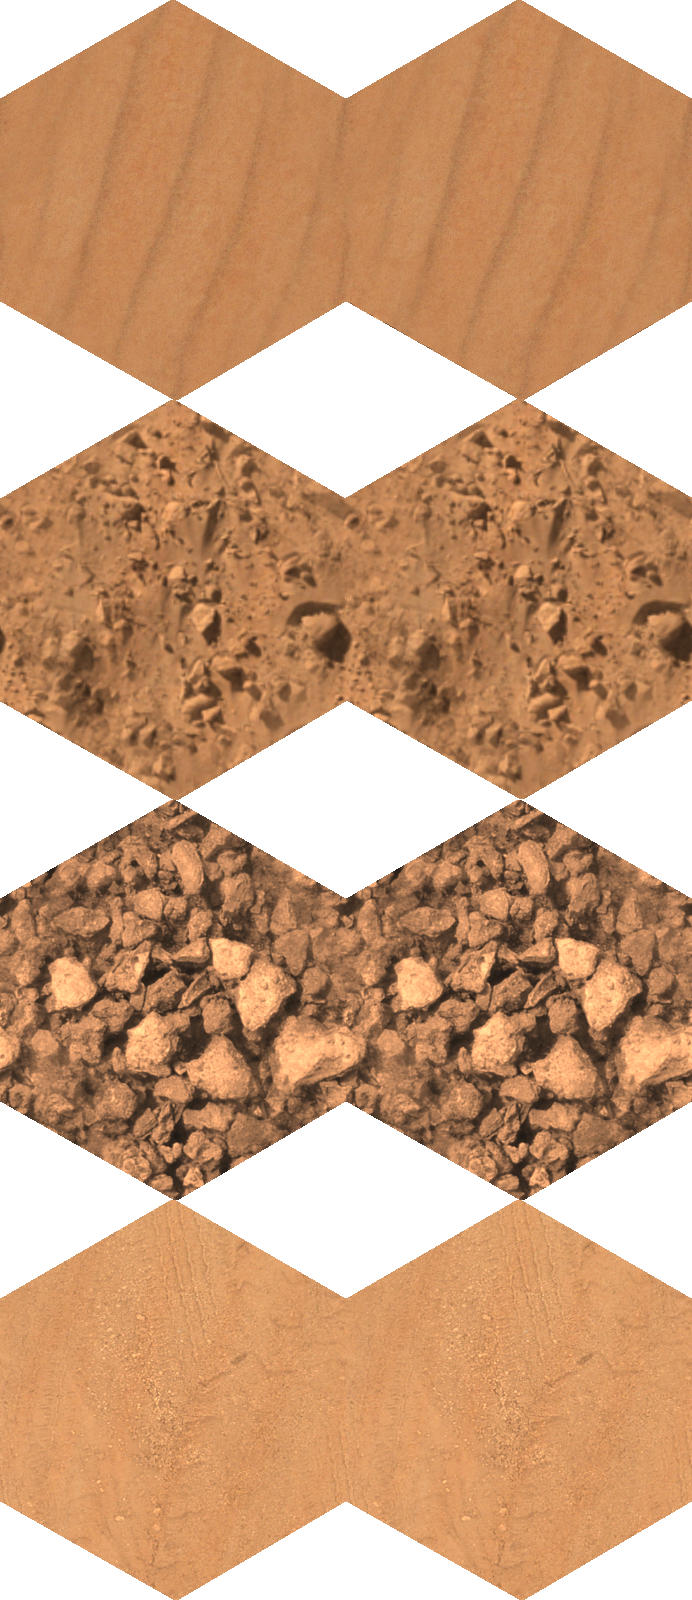
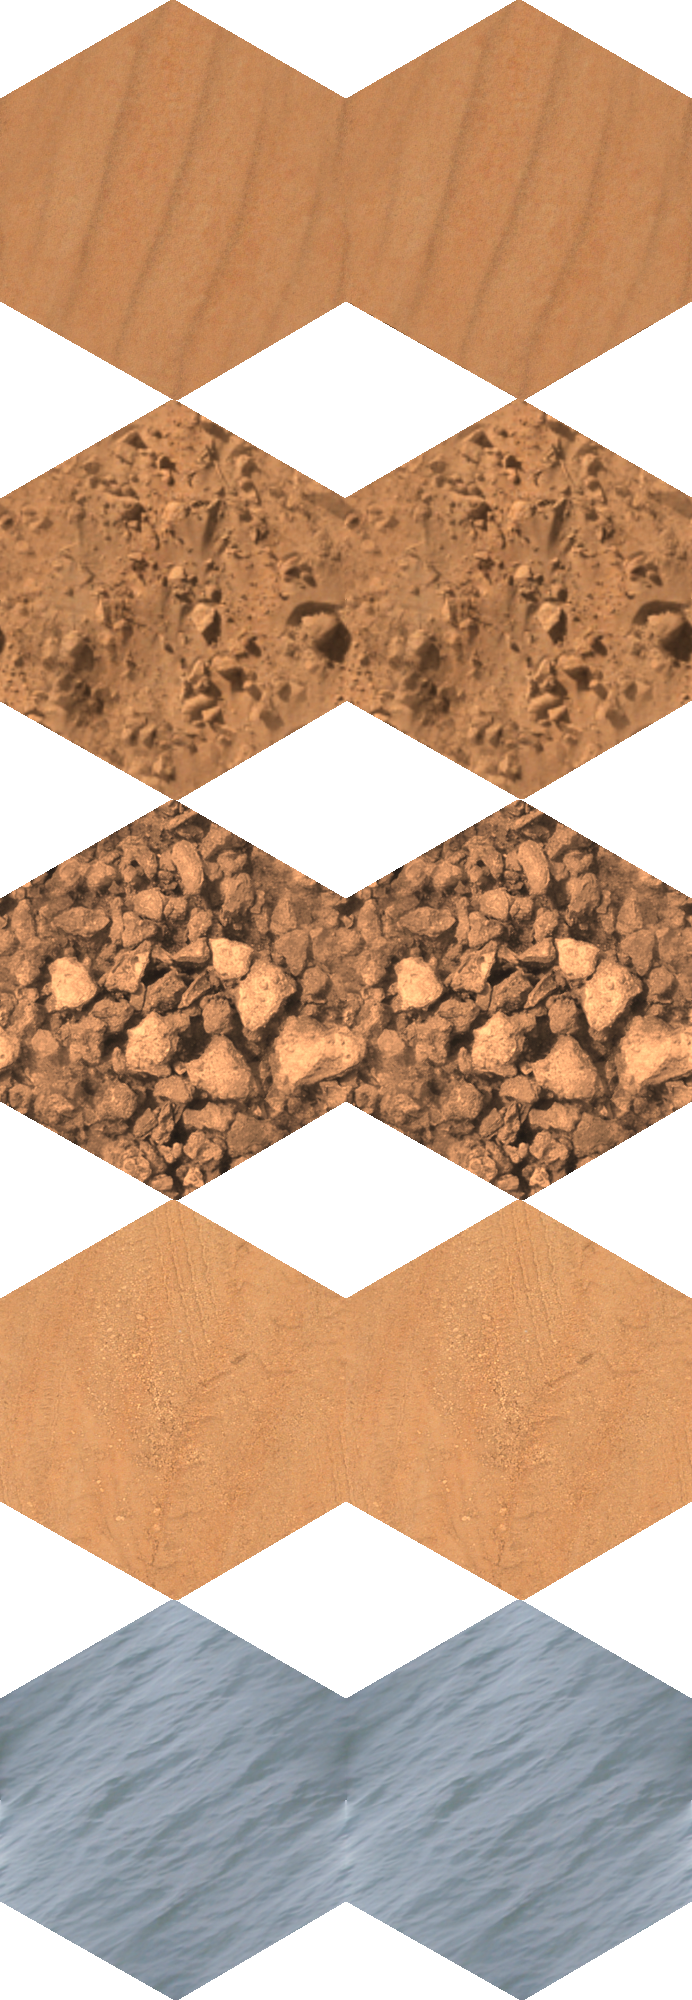
added water to map generation

diff --git a/Prototypes/MapCanvas/MapCanvas.js b/Prototypes/MapCanvas/MapCanvas.js
@@ -8,7 +8,7 @@ var mouseX, mouseY, mPanTrack;                                                  
 
 /*Define our Constructors*/
 function Terrain() {
-    this.type; // 0=Smooth, 1=Rough, 2=Mountainous, 3=Prepared/MinedOut
+    this.type; // 0=Smooth, 1=Rough, 2=Mountainous, 3=Prepared/MinedOut 4=Water
     this.altitude; //a function of distance from mountains
     this.resources; //an array that holds the different metal and resource types
 }
@@ -221,6 +221,12 @@ function drawRadar() {
                         radarPixels.data[idx + 2] = 4;
                         radarPixels.data[idx + 3] = 255;
                         break;
+                    case 4:
+                        radarPixels.data[idx + 0] = 128;
+                        radarPixels.data[idx + 1] = 188;
+                        radarPixels.data[idx + 2] = 224;
+                        radarPixels.data[idx + 3] = 255;
+                        break;
                     default:
                         //do nothing
                 }
@@ -283,7 +289,7 @@ function createMap() {
 			if(distance(x,y,radarRad,radarRad)<=radarRad) {                                         //check the radius, mark true if it's mapped, mark false if it's not in the circle
 				map[y][x][0]=true;                                              //invert axes because referencing the array is not like referencing a graph
 				map[y][x][1]= new Terrain();                                    //if we're in the circle, assign a tile value
-                map[y][x][1].type = 3;
+                map[y][x][1].type = 4;
                 map[y][x][1].altitude=0;
                 map[y][x][1].resources= new Array(2);                           //insert the number of resources we'll be looking for
                 generateResources(x,y,0);
@@ -363,21 +369,9 @@ function flatTerrain(smoothness) {
             } catch(e){console.log('hmm... y:' + y + '  x:'+x+ '  '+ e);}       
         }
     }
-    lakes();
 }
 
-function lakes() {
-    for (var y = 0; y < radarRad*2; y++) {
-        for (var x = 0; x < radarRad*2; x++) {
-            if (map[y][x][0]===true && map[y][x][1].altitude < 5) {
-                map[y][x][1].type=3;
-            }
-        }
-    }
-    console.log('done?');
-}
-
-/*returns the distance of x,y from a tile of type*/
+/*returns the distance of x,y from a tile of type - avoid recursive use, it's quite heavy*/
 function distanceFrom(xIn,yIn,type) {
     var minDist = radarRad*2;
     for (var y = 0; y < radarRad*2; y++) {
@@ -574,7 +568,7 @@ function clickTest() {
         default:
             break;
     }
-    if (kind >= 0){
+    if (kind >= 0 && map[(retY+getTile('y')-5)][(retX+getTile('x')-5)][1].type !== 4){
         map[(retY+getTile('y')-5)][(retX+getTile('x')-5)][1].type = kind;
         drawZoomMap();
         drawRadar();
